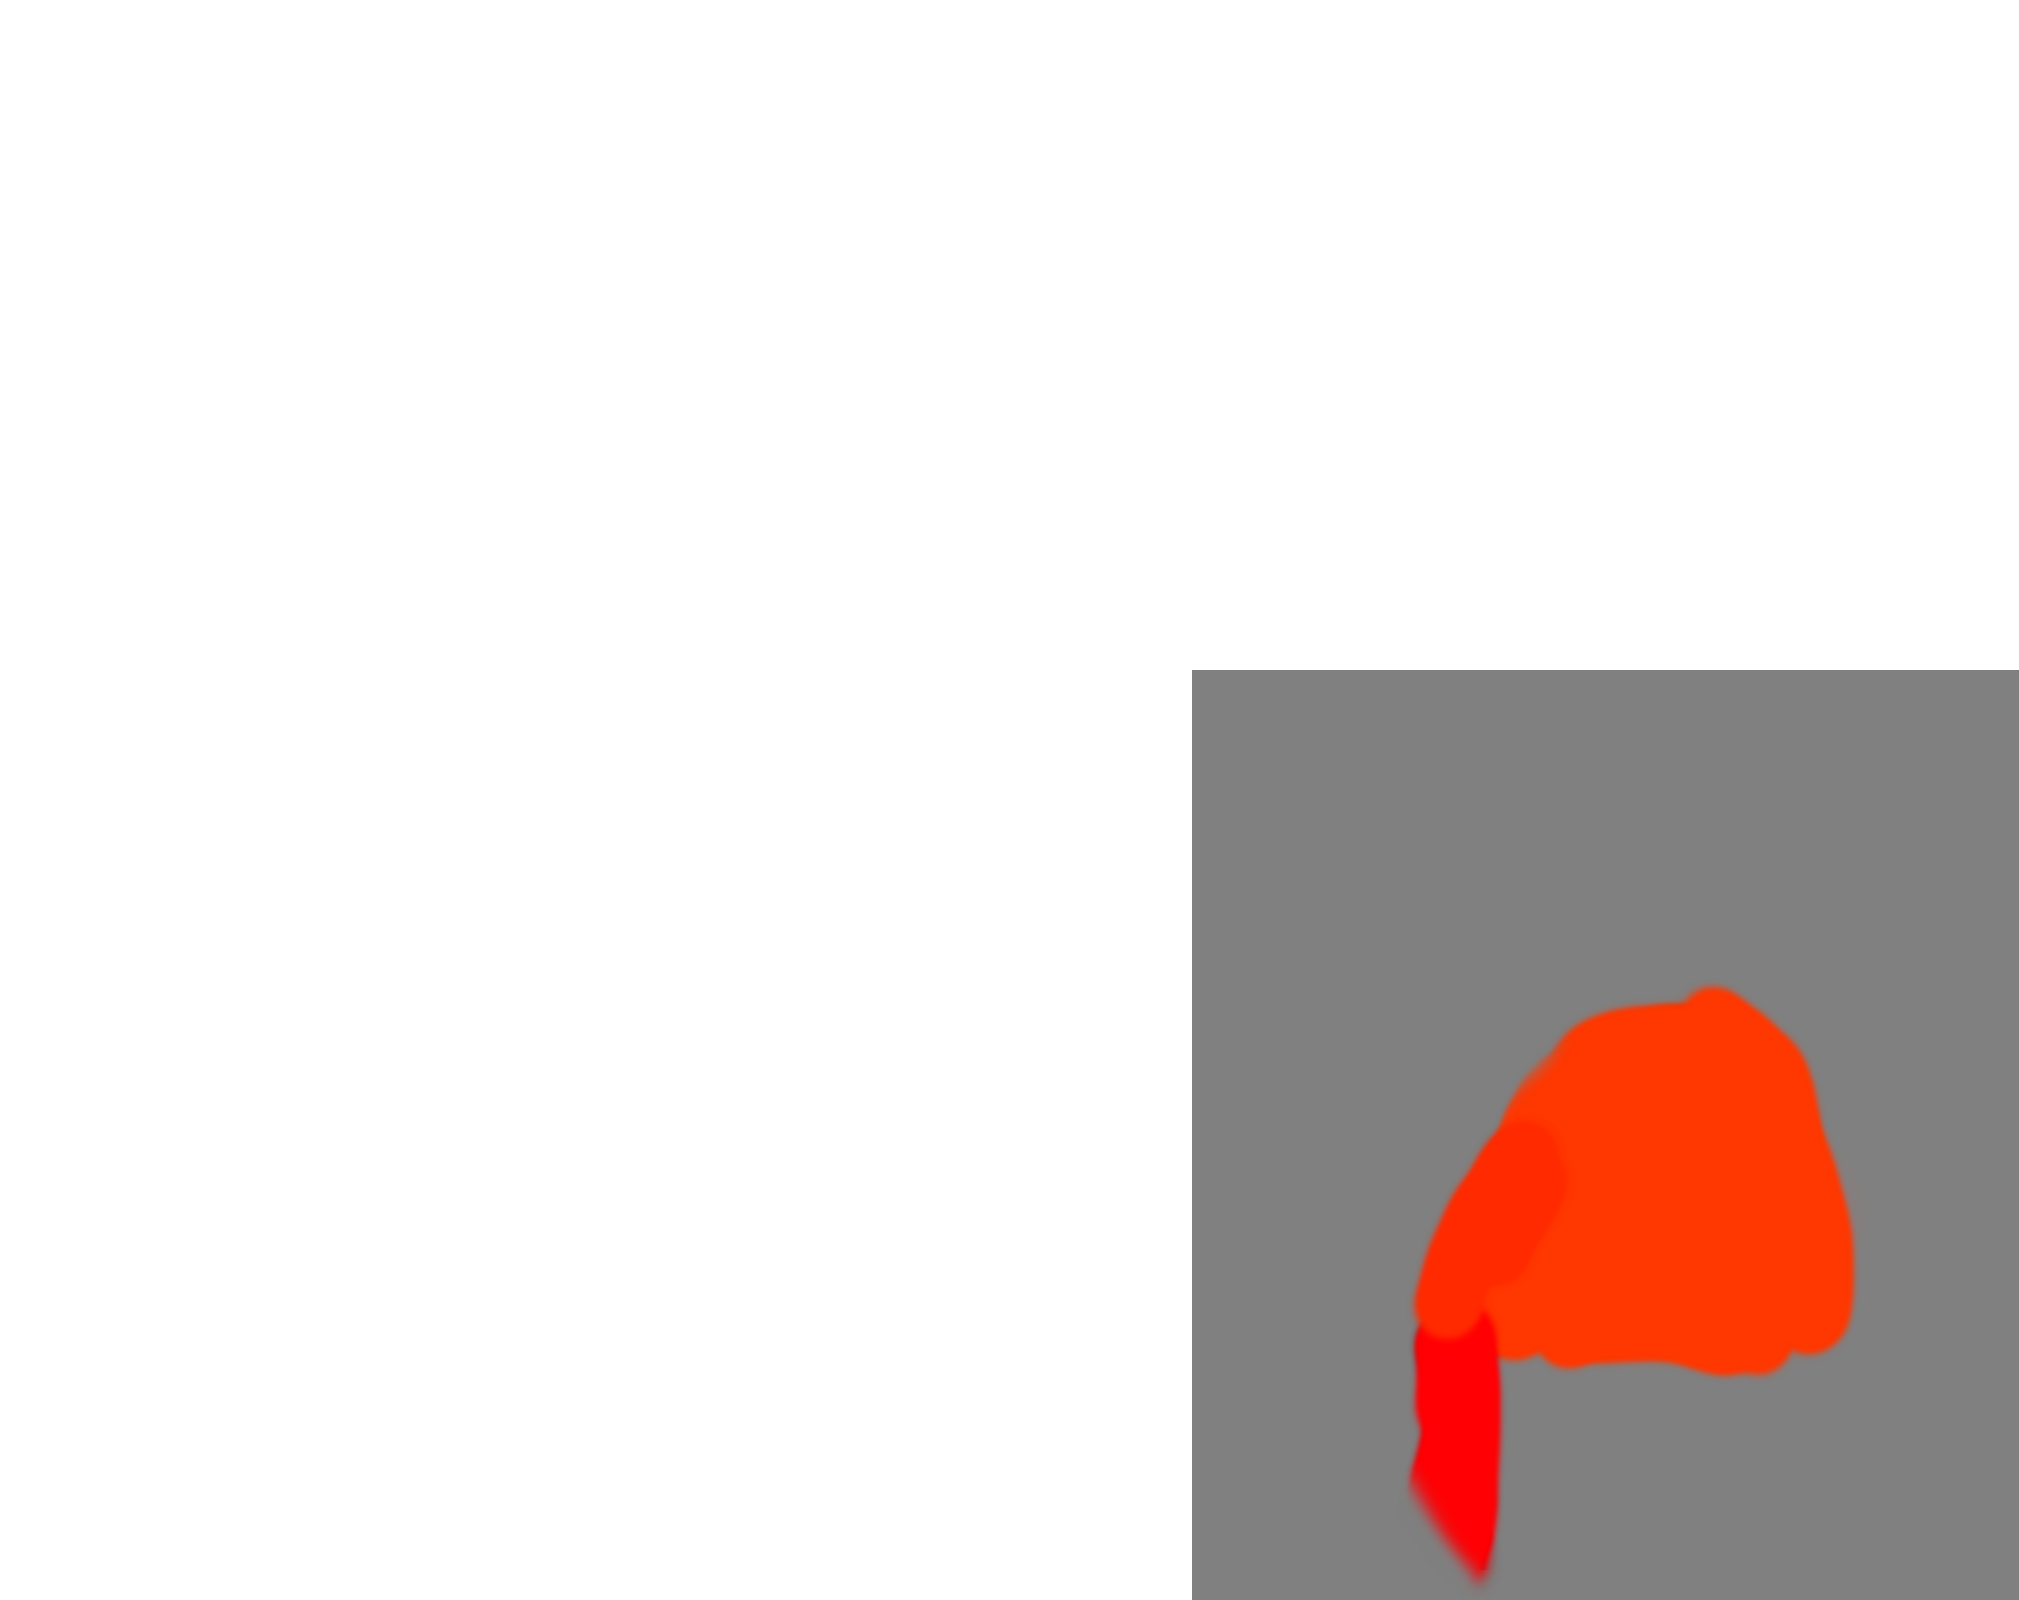
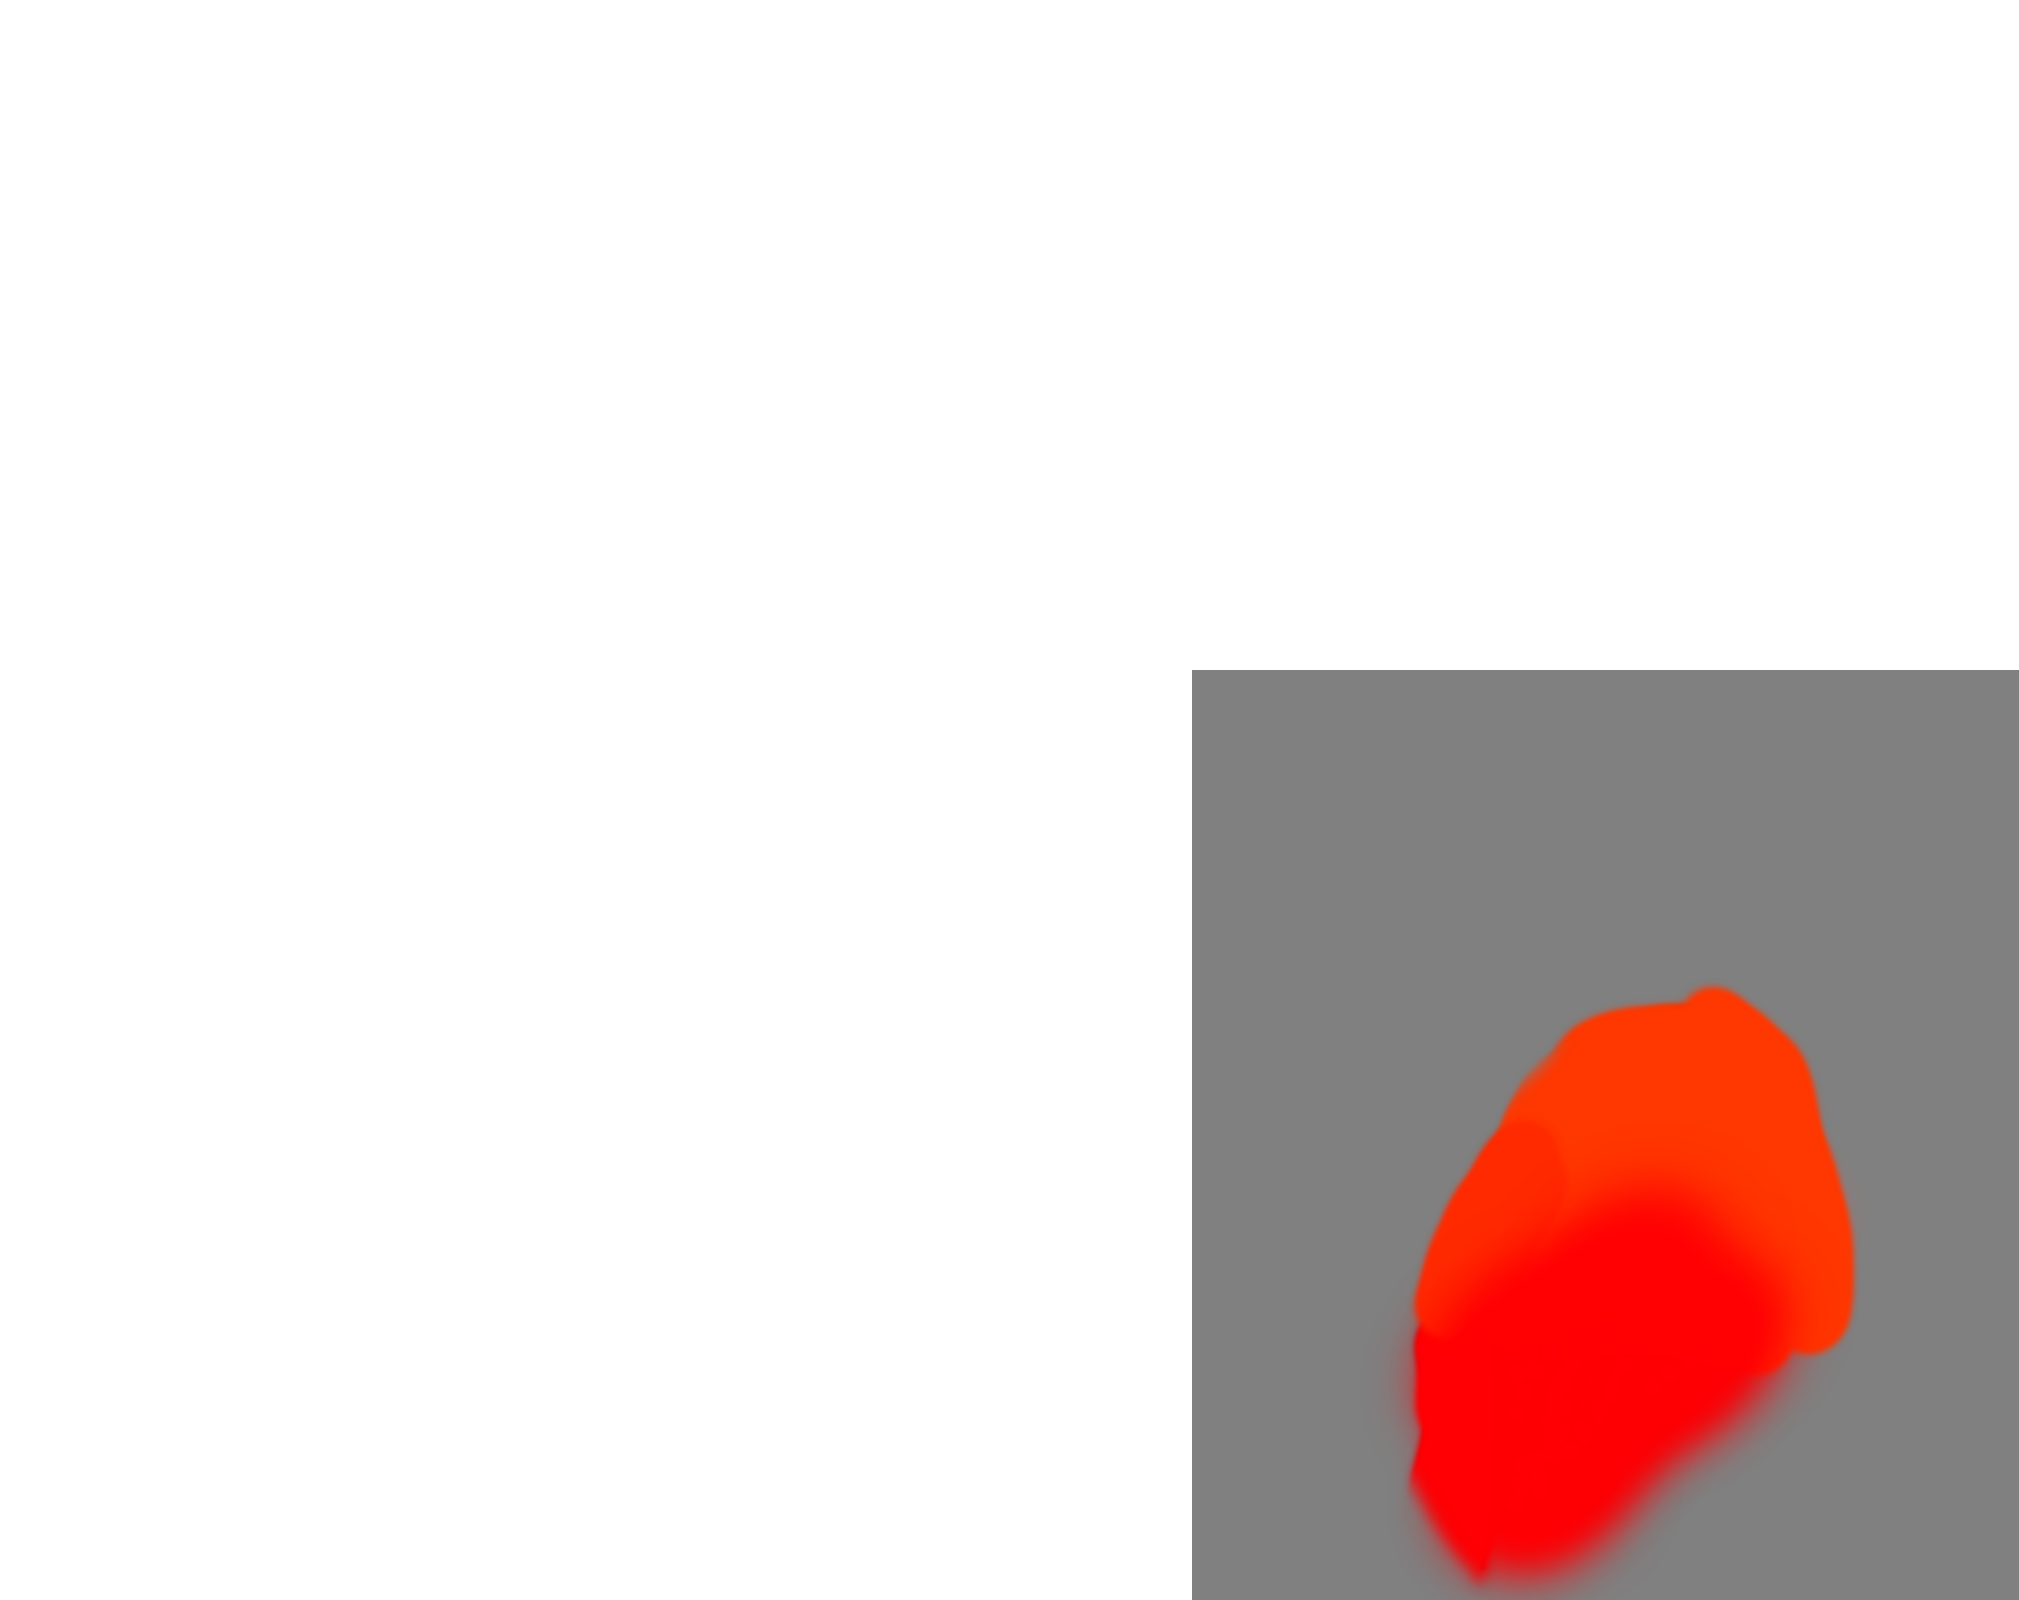
changes and fixes

Changed region(s): [[0.6865, 0.7188, 0.9049, 1.0]]

diff --git a/Data/ModelList_Armbinders.ts b/Data/ModelList_Armbinders.ts
@@ -15,6 +15,7 @@ AddModel({
 	Parent: "SantaHat",
 	AddPose: ["HideHands"],
 	Categories: ["Restraints", "Latex", "Binders"],
+	HideLayers: ["BindElbowLeft"],
 	Layers: ToLayerMap([
 		{ Name: "BinderLeft", Layer: "BindArmLeft", Pri: 32.1,
 			HideWhenOverridden: true,
@@ -22,7 +23,7 @@ AddModel({
 			InheritColor: "Binder",
 			DisplacementSprite: "BinderLeft",
 			DisplaceLayers: ToMap(["Arms"]),
-			DisplaceAmount: 100,
+			DisplaceAmount: 250,
 		},
 		{ Name: "BinderRight", Layer: "BindArmRight", Pri: 32.1,
 			HideWhenOverridden: true,
@@ -30,7 +31,7 @@ AddModel({
 			InheritColor: "Binder",
 			DisplacementSprite: "BinderRight",
 			DisplaceLayers: ToMap(["Arms"]),
-			DisplaceAmount: 100,
+			DisplaceAmount: 250,
 		},
 		{ Name: "BinderStrapLeft", Layer: "BindArmLeft", Pri: 32,
 			NoOverride: true,
@@ -55,6 +56,7 @@ AddModel({
 	TopLevel: false,
 	Parent: "Armbinder",
 	AddPose: ["HideHands"],
+	HideLayers: ["BindElbowLeft"],
 	Categories: ["Restraints", "Latex", "Binders"],
 	Layers: ToLayerMap([
 		{ Name: "BinderLeft", Layer: "BindArmLeft", Pri: 30,
@@ -63,7 +65,7 @@ AddModel({
 			InheritColor: "Binder",
 			DisplacementSprite: "BinderLeft",
 			DisplaceLayers: ToMap(["Arms"]),
-			DisplaceAmount: 100,
+			DisplaceAmount: 250,
 		},
 		{ Name: "BinderRight", Layer: "BindArmRight", Pri: 30,
 			HideWhenOverridden: true,
@@ -71,7 +73,7 @@ AddModel({
 			InheritColor: "Binder",
 			DisplacementSprite: "BinderRight",
 			DisplaceLayers: ToMap(["Arms"]),
-			DisplaceAmount: 100,
+			DisplaceAmount: 250,
 		},
 	])
 });
@@ -85,6 +87,7 @@ AddModel({
 	Restraint: true,
 	Categories: ["Restraints", "Leather", "Binders"],
 	AddPose: ["HideHands"],
+	HideLayers: ["BindElbowLeft"],
 	Layers: ToLayerMap([
 		...GetModelLayers("SmoothArmbinder"),
 		{ Name: "StrapsLeft", Layer: "BindArmLeft", Pri: 31,
@@ -111,6 +114,7 @@ AddModel({
 	TopLevel: false,
 	Parent: "Armbinder",
 	AddPose: ["HideHands"],
+	HideLayers: ["BindElbowLeft"],
 	Categories: ["Restraints", "Leather", "Binders"],
 	Layers: ToLayerMap([
 		...GetModelLayers("Armbinder"),
@@ -129,6 +133,7 @@ AddModel({
 	TopLevel: false,
 	Parent: "Armbinder",
 	AddPose: ["HideHands"],
+	HideLayers: ["BindElbowLeft"],
 	Categories: ["Restraints", "Latex", "Binders"],
 	Layers: ToLayerMap([
 		...GetModelLayers("SmoothArmbinder"),
@@ -147,6 +152,7 @@ AddModel({
 	TopLevel: false,
 	Parent: "Armbinder",
 	AddPose: ["HideHands"],
+	HideLayers: ["BindElbowLeft"],
 	Categories: ["Restraints", "Leather", "Binders"],
 	Layers: ToLayerMap([
 		...GetModelLayers("Armbinder"),
@@ -165,6 +171,7 @@ AddModel({
 	TopLevel: false,
 	Parent: "Armbinder",
 	AddPose: ["HideHands"],
+	HideLayers: ["BindElbowLeft"],
 	Categories: ["Restraints", "Latex", "Binders"],
 	Layers: ToLayerMap([
 		...GetModelLayers("SmoothArmbinder"),
@@ -183,6 +190,7 @@ AddModel({
 	TopLevel: false,
 	Parent: "Armbinder",
 	AddPose: ["HideHands"],
+	HideLayers: ["BindElbowLeft"],
 	Categories: ["Restraints", "Leather", "Binders"],
 	Layers: ToLayerMap([
 		...GetModelLayers("Armbinder"),
@@ -202,6 +210,7 @@ AddModel({
 	TopLevel: false,
 	Parent: "Armbinder",
 	AddPose: ["HideHands"],
+	HideLayers: ["BindElbowLeft"],
 	Categories: ["Restraints", "Latex", "Binders"],
 	Layers: ToLayerMap([
 		...GetModelLayers("SmoothArmbinder"),
@@ -223,6 +232,7 @@ AddModel({
 	TopLevel: false,
 	Parent: "Armbinder",
 	AddPose: ["HideHands"],
+	HideLayers: ["BindElbowLeft"],
 	Categories: ["Restraints", "Leather", "Binders"],
 	Layers: ToLayerMap([
 		...GetModelLayers("Armbinder"),

diff --git a/Game/src/dialogue/KinkyDungeonDialogue.ts b/Game/src/dialogue/KinkyDungeonDialogue.ts
@@ -127,7 +127,7 @@ function KDDrawDialogue(delta: number): void {
 		if (!dialogue.drawFunction || !dialogue.drawFunction(gagged, KinkyDungeonPlayerEntity, delta)) {
 			let dialogueParams = KDGetGenericDialogueParams(KinkyDungeonPlayerEntity, KinkyDungeonFindID(
 				KDGameData.CurrentDialogEntity?.id || 0
-			));
+			) || KDGameData.CurrentDialogEntity);
 			// Type the message
 			let text = TextGet("r" + KDGameData.CurrentDialogMsg, dialogueParams).split(/\||\\n|\n/);
 			for (let i = 0; i < text.length; i++) {
@@ -195,7 +195,10 @@ function KDDrawDialogue(delta: number): void {
 											enemy: KDGetSpeaker()?.id});
 								}
 								return true;
-							}, KinkyDungeonDialogueTimer < CommonTime(), KDDialogueButtonX, KDDialogueButtonY + II * KDDialogueButtonSpacing, KDDialogueButtonWidth, KDDialogueButtonHeight,
+							}, KinkyDungeonDialogueTimer < CommonTime(), 
+							KDDialogueButtonX, 
+							KDDialogueButtonY + II * KDDialogueButtonSpacing, 
+							KDDialogueButtonWidth, KDDialogueButtonHeight,
 							(notGrey || KDDialogueData.CurrentDialogueIndex != II) ? tt : TextGet(
 								entries[i][1].greyoutCustomTooltip
 								? entries[i][1].greyoutCustomTooltip(gagged, KDPlayer())

diff --git a/Game/src/prison/prisontypes/DollShoppe.ts b/Game/src/prison/prisontypes/DollShoppe.ts
@@ -477,7 +477,7 @@ KDPrisonTypes.DollShoppe = {
 					}
 
 					if (!KinkyDungeonFlags.get("transformCD") && !KinkyDungeonStatsChoice.get("NoDollTransform") && !KinkyDungeonFlags.get("Transformed")
-						&& (KinkyDungeonFlags.get("annoy_puppet") || KDEntityBuffedStat(player, "Hypno_Doll") > 25)) {
+						&& (KDCanBeDolled(player))) {
 						return "Transform";
 					}
 					
@@ -1042,4 +1042,10 @@ function KDSelectLabel(entity: entity, label: KDLabel) {
 function KDGetLabel(entity: entity) {
 	if (!KDGameData.selectedLabel) KDGameData.selectedLabel = {};
 	return KDGameData.selectedLabel[entity.id];
+}
+
+function KDCanBeDolled(player: entity) {
+	return KinkyDungeonFlags.get("annoy_puppet")
+		|| KDFactionRelation("Player", "Dressmaker") <= KDREPHOSTILE 
+		|| KDEntityBuffedStat(player, "Hypno_Doll") > 10;
 }

diff --git a/Game/src/restraint/KinkyDungeonRestraints.ts b/Game/src/restraint/KinkyDungeonRestraints.ts
@@ -2556,7 +2556,8 @@ function KDGetStruggleData(data: KDStruggleData): string {
 				data.escapeChance *= 0.5;
 				data.limitChance *= 0.6; // Compensate by reducing limit chance a little
 			} else {
-				KinkyDungeonSendTextMessage(10, TextGet("KinkyDungeonNeedGrip"), KDBaseRed, 2, true);
+				if (!data.query)
+					KinkyDungeonSendTextMessage(10, TextGet("KinkyDungeonNeedGrip"), KDBaseRed, 2, true);
 				data.escapeChance *= 0.0;
 			}
 		} else if (data.hasAffinity) data.escapeChance *= 0.5;
